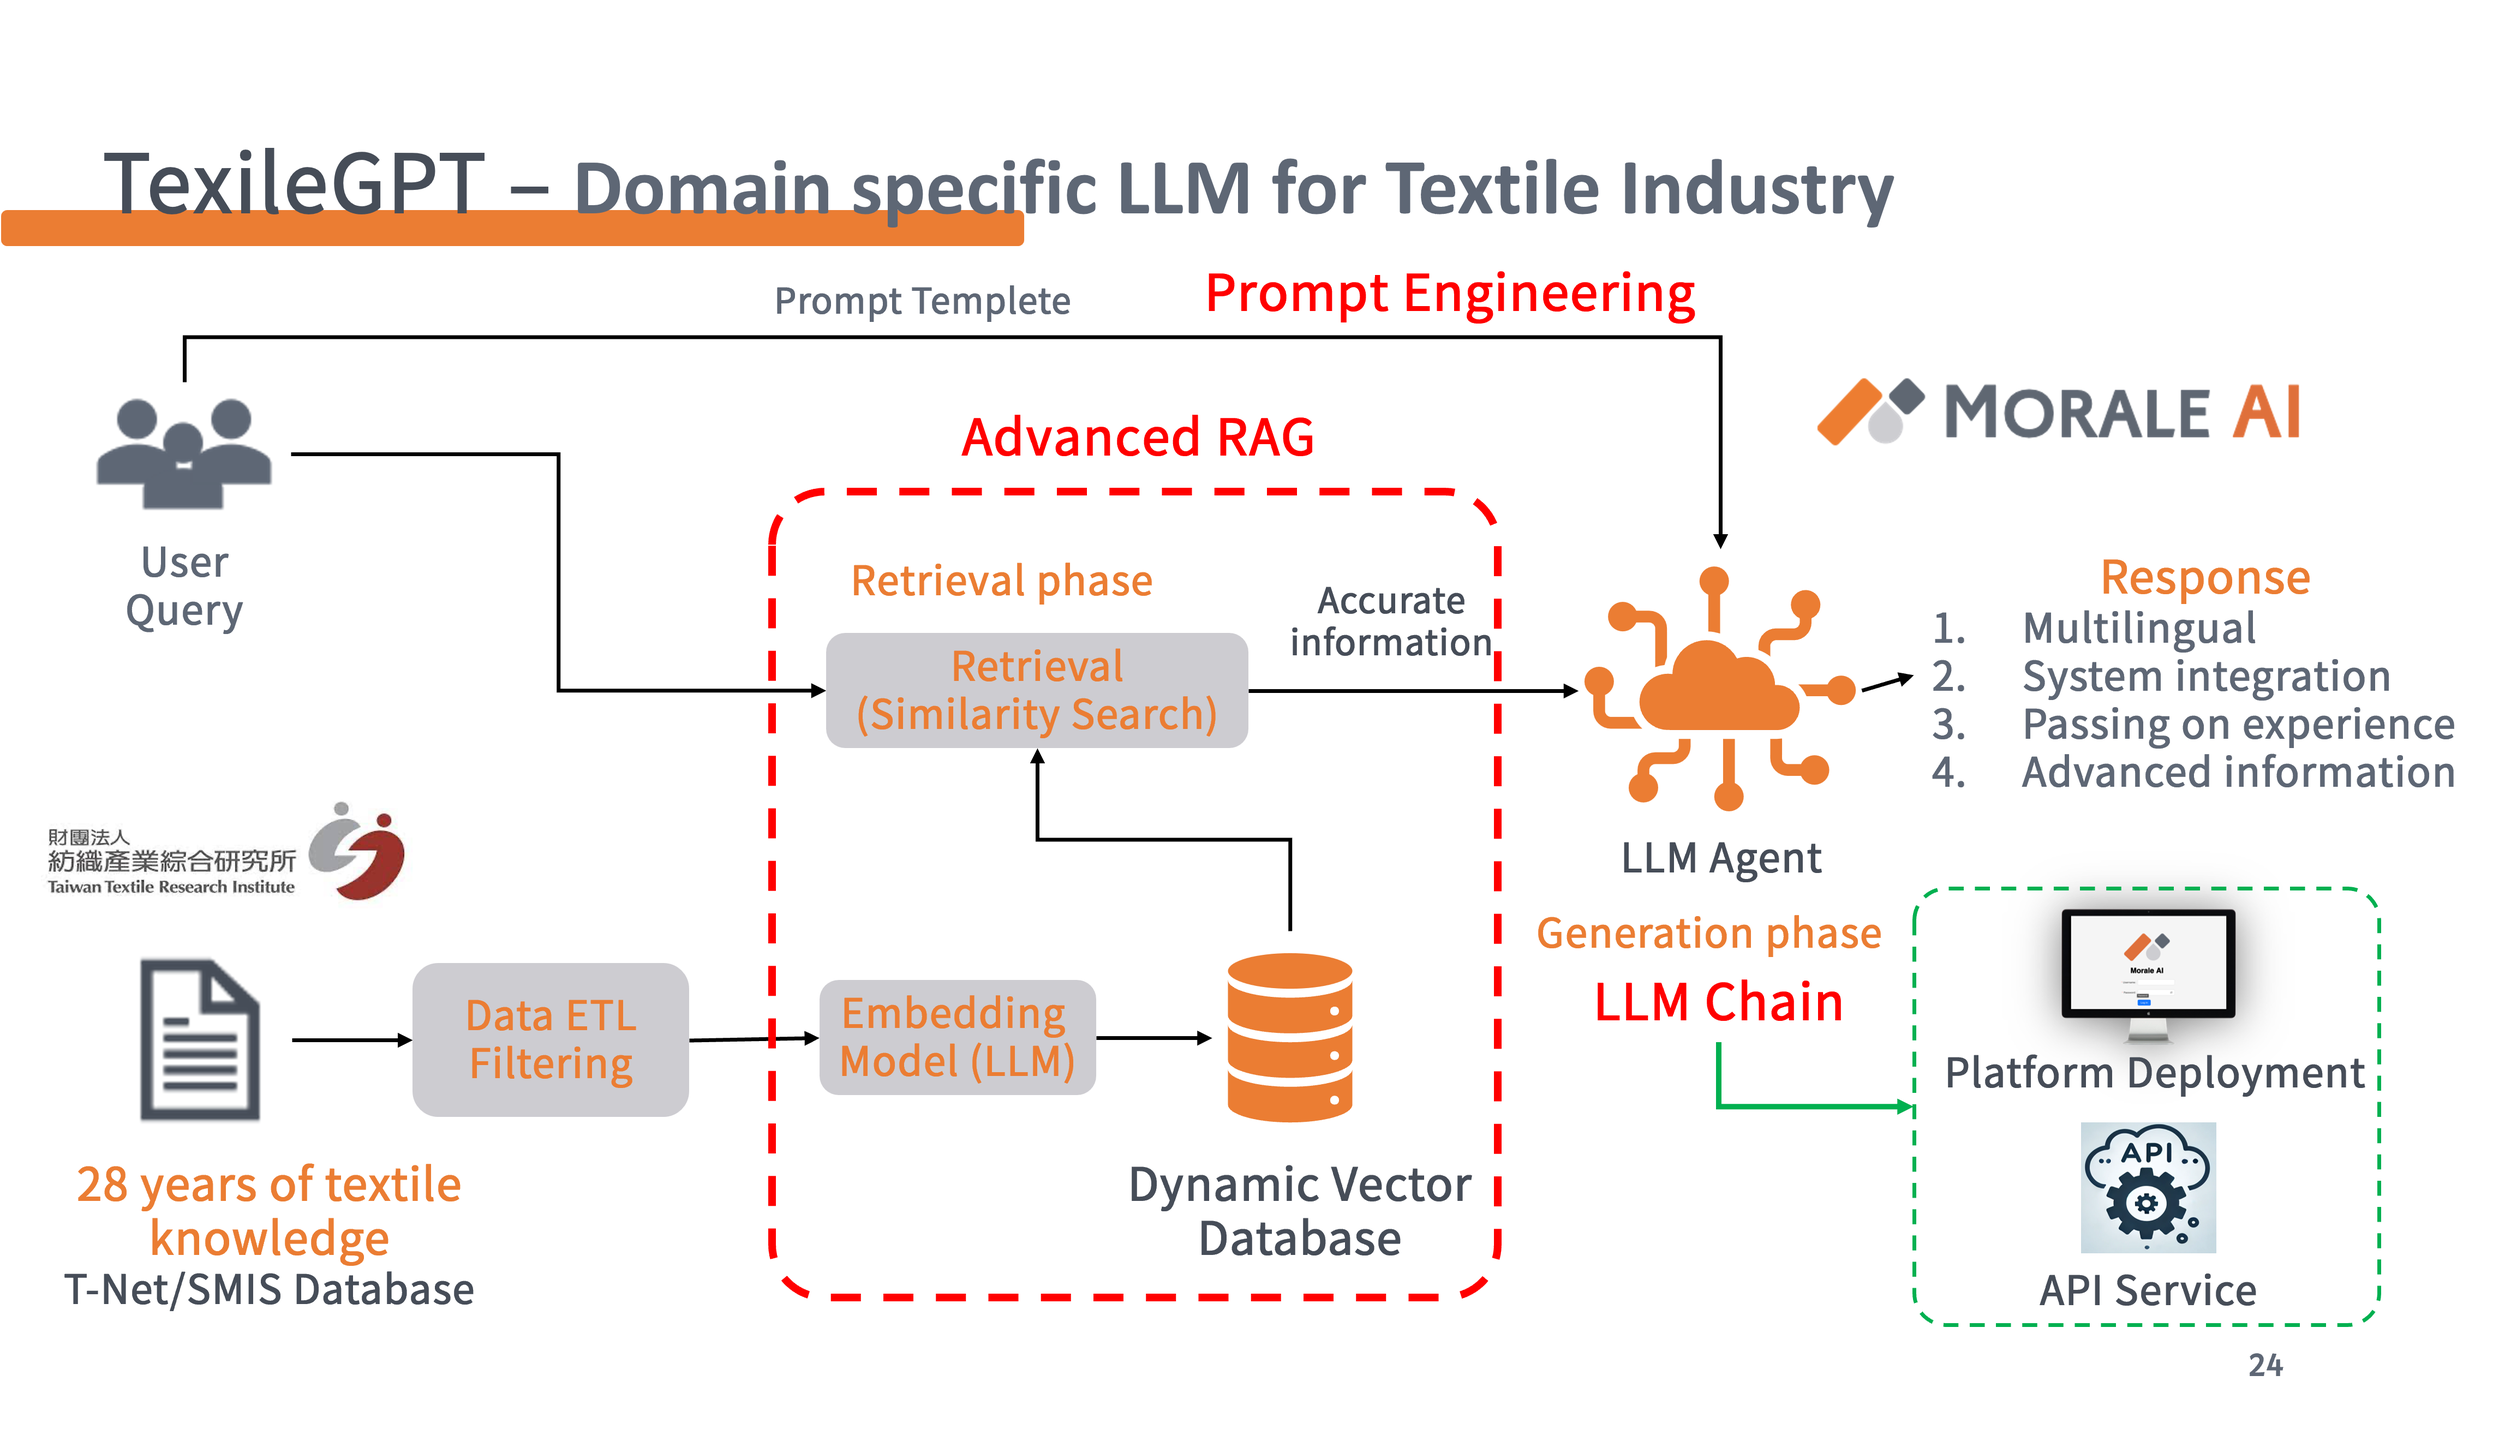
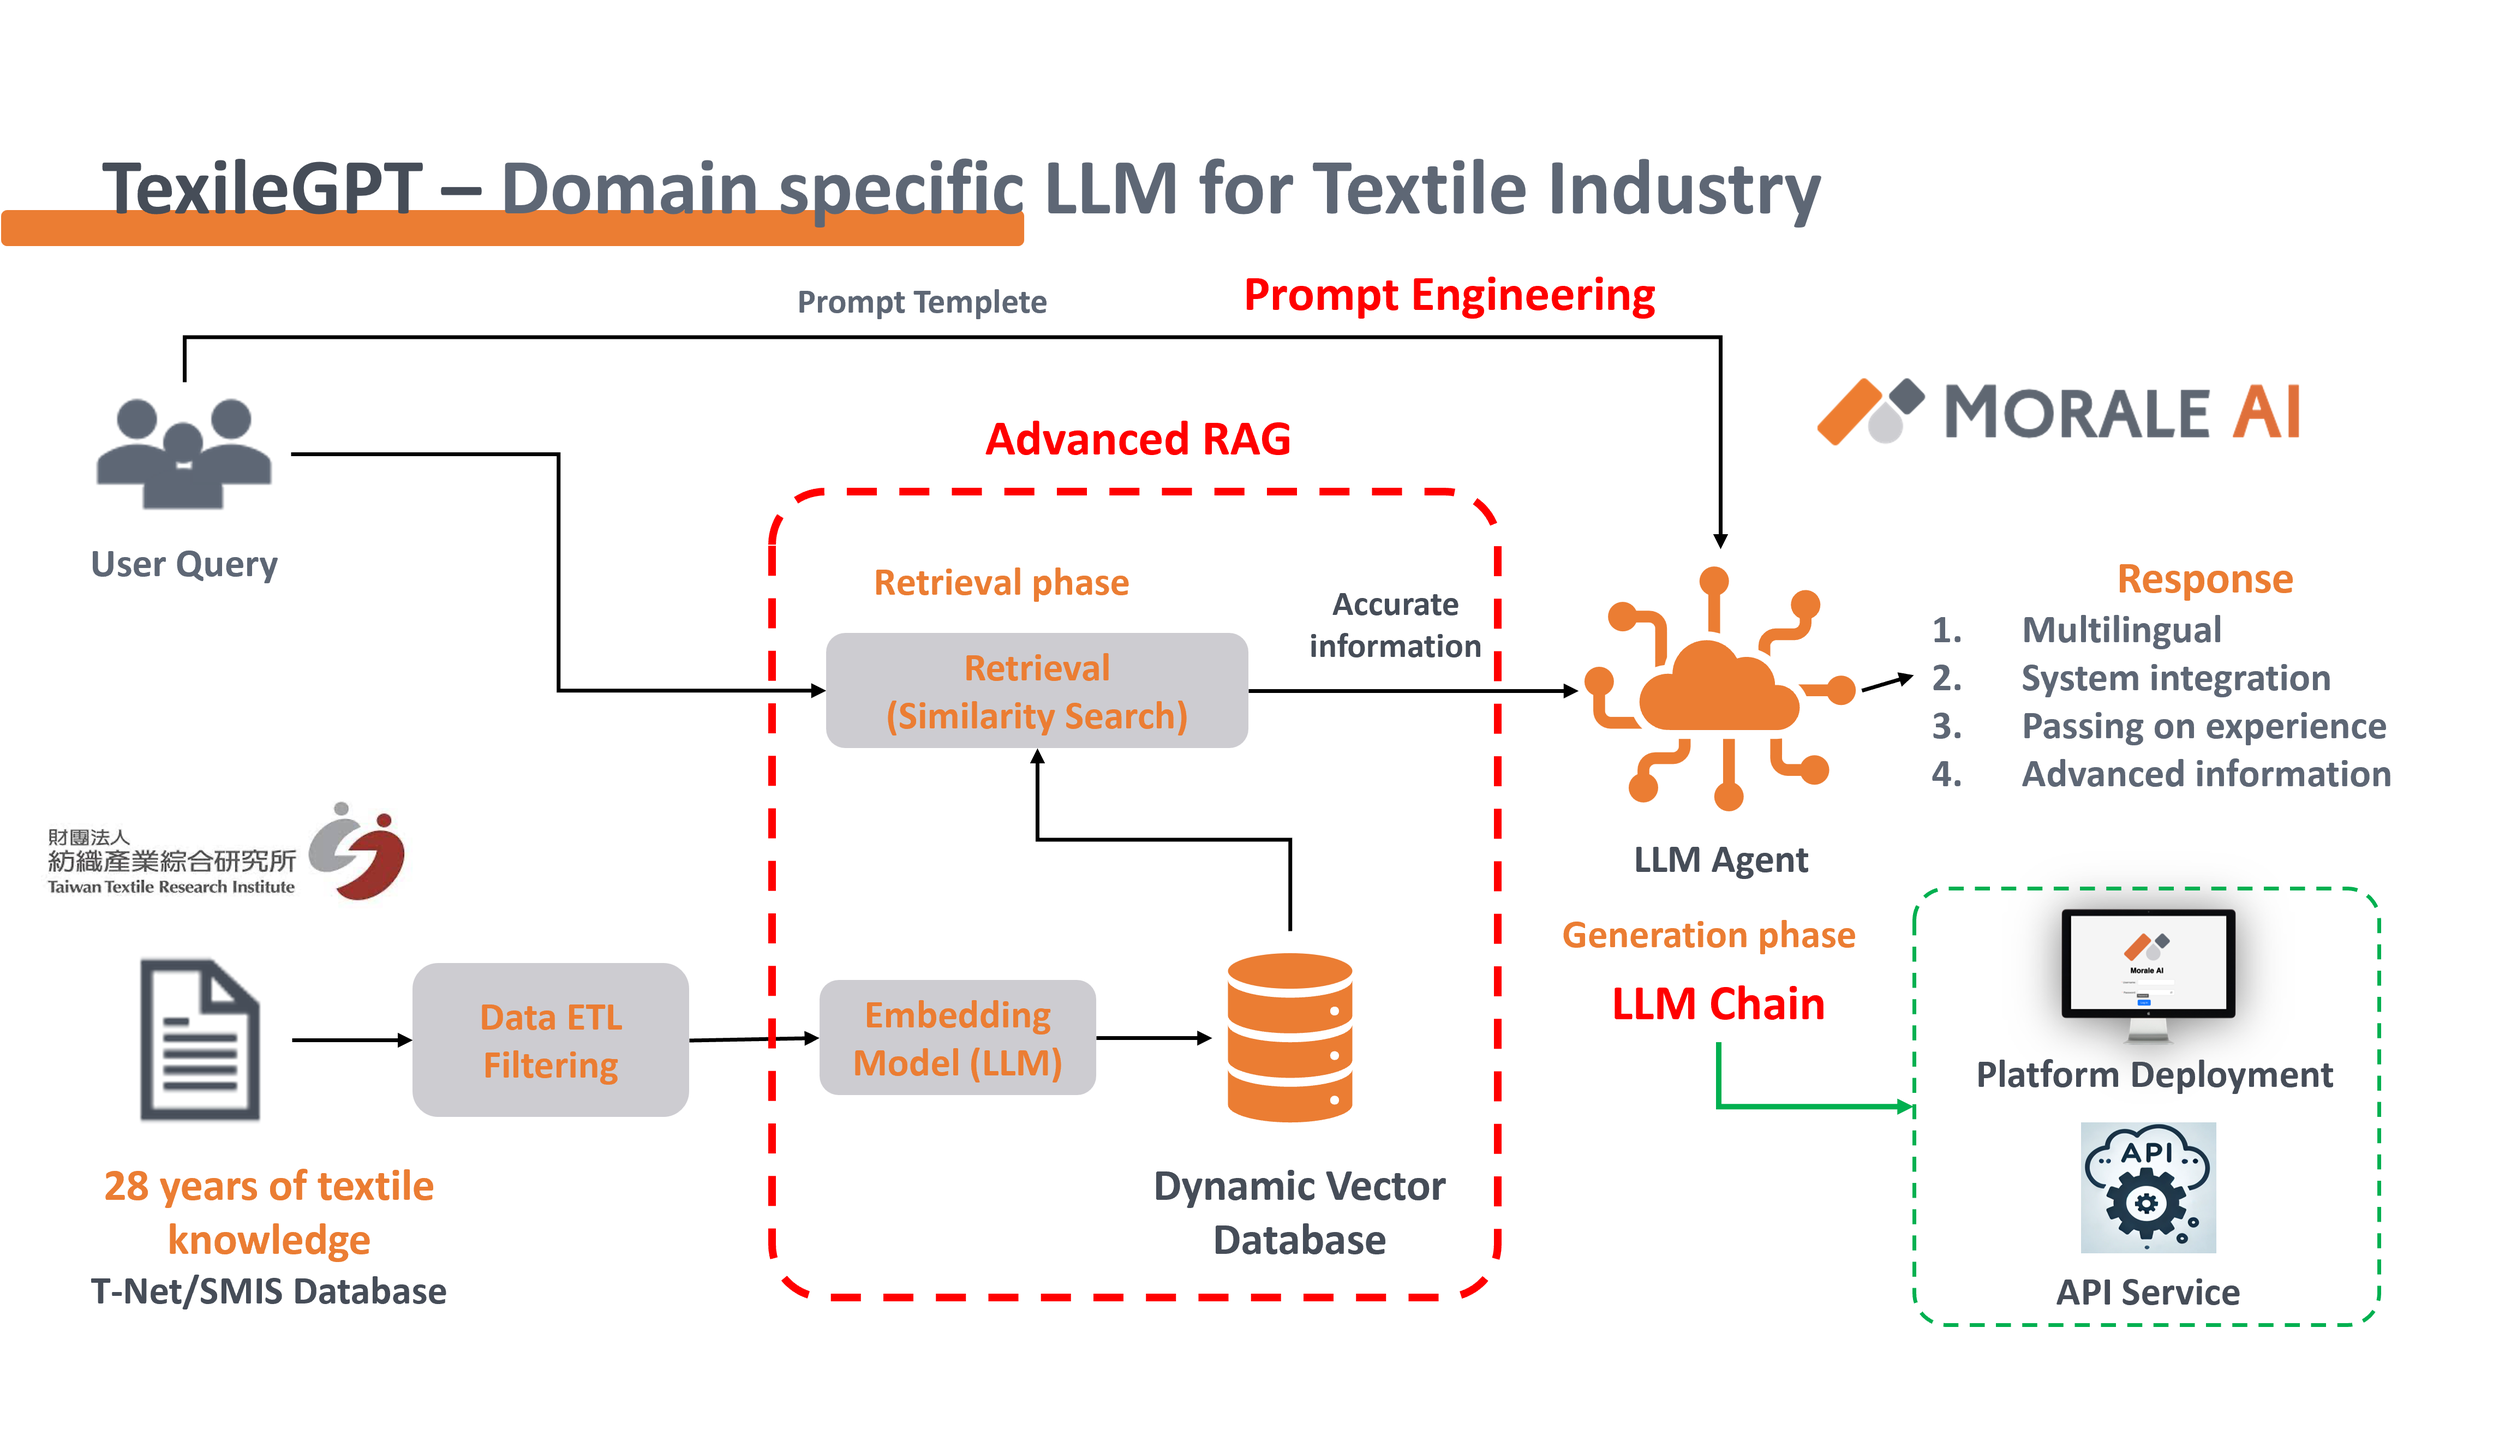
Update LLM img

diff --git a/LLM.html b/LLM.html
@@ -1505,32 +1505,32 @@ SIL OPEN FONT LICENSE Version 1.1 - 26 February 2007
                                   ><source
                                     media="(max-width: 450px)"
                                     srcset="
-                                      ./img/LLM.png,
-                                      ./img/LLM.png 2x,
-                                      ./img/LLM.png 3x
+                                      ./img/LLM2.png,
+                                      ./img/LLM2.png 2x,
+                                      ./img/LLM2.png 3x
                                     " />
                                   <source
                                     media="(min-width: 451px) and (max-width: 767px)"
                                     srcset="
-                                      ./img/LLM.png,
-                                      ./img/LLM.png 2x,
-                                      ./img/LLM.png 3x
+                                      ./img/LLM2.png,
+                                      ./img/LLM2.png 2x,
+                                      ./img/LLM2.png 3x
                                     " />
                                   <source
                                     media="(min-width: 768px) and (max-width: 1023px)"
-                                    srcset="./img/LLM.png, ./img/LLM.png 2x" />
+                                    srcset="./img/LLM2.png, ./img/LLM2.png 2x" />
                                   <source
                                     media="(min-width: 1024px) and (max-width: 1279px)"
-                                    srcset="./img/LLM.png, ./img/LLM.png 2x" />
+                                    srcset="./img/LLM2.png, ./img/LLM2.png 2x" />
                                   <source
                                     media="(min-width: 1280px) and (max-width: 1535px)"
-                                    srcset="./img/LLM.png, ./img/LLM.png 2x" />
+                                    srcset="./img/LLM2.png, ./img/LLM2.png 2x" />
                                   <source
                                     media="(min-width: 1536px)"
-                                    srcset="./img/LLM.png, ./img/LLM.png 2x" />
+                                    srcset="./img/LLM2.png, ./img/LLM2.png 2x" />
                                   <img
                                     data-ux="Image"
-                                    src="./img/LLM.png"
+                                    src="./img/LLM2.png"
                                     data-aid="GALLERY_IMAGE0_RENDERED"
                                     class="x-el x-el-img c1-1 c1-2 c1-4 c1-1x c1-28 c1-29 c1-15 c1-17 c1-2a c1-6k c1-6g c1-6h c1-2g c1-b c1-c c1-6l c1-d c1-e c1-f c1-g"
                                 /></picture>
@@ -1592,32 +1592,32 @@ SIL OPEN FONT LICENSE Version 1.1 - 26 February 2007
                                   ><source
                                     media="(max-width: 450px)"
                                     srcset="
-                                      ./img/textilegpt.png,
-                                      ./img/textilegpt.png 2x,
-                                      ./img/textilegpt.png 3x
+                                      ./img/textilegpt2.png,
+                                      ./img/textilegpt2.png 2x,
+                                      ./img/textilegpt2.png 3x
                                     " />
                                   <source
                                     media="(min-width: 451px) and (max-width: 767px)"
                                     srcset="
-                                      ./img/textilegpt.png,
-                                      ./img/textilegpt.png 2x,
-                                      ./img/textilegpt.png 3x
+                                      ./img/textilegpt2.png,
+                                      ./img/textilegpt2.png 2x,
+                                      ./img/textilegpt2.png 3x
                                     " />
                                   <source
                                     media="(min-width: 768px) and (max-width: 1023px)"
-                                    srcset="./img/textilegpt.png, ./img/textilegpt.png 2x" />
+                                    srcset="./img/textilegpt2.png, ./img/textilegpt2.png 2x" />
                                   <source
                                     media="(min-width: 1024px) and (max-width: 1279px)"
-                                    srcset="./img/textilegpt.png, ./img/textilegpt.png 2x" />
+                                    srcset="./img/textilegpt2.png, ./img/textilegpt2.png 2x" />
                                   <source
                                     media="(min-width: 1280px) and (max-width: 1535px)"
-                                    srcset="./img/textilegpt.png, ./img/textilegpt.png 2x" />
+                                    srcset="./img/textilegpt2.png, ./img/textilegpt2.png 2x" />
                                   <source
                                     media="(min-width: 1536px)"
-                                    srcset="./img/textilegpt.png, ./img/textilegpt.png 2x" />
+                                    srcset="./img/textilegpt2.png, ./img/textilegpt2.png 2x" />
                                   <img
                                     data-ux="Image"
-                                    src="./img/textilegpt.png"
+                                    src="./img/textilegpt2.png"
                                     data-aid="GALLERY_IMAGE0_RENDERED"
                                     class="x-el x-el-img c1-1 c1-2 c1-4 c1-1x c1-28 c1-29 c1-15 c1-17 c1-2a c1-6k c1-6g c1-6h c1-2g c1-b c1-c c1-6l c1-d c1-e c1-f c1-g"
                                 /></picture>
